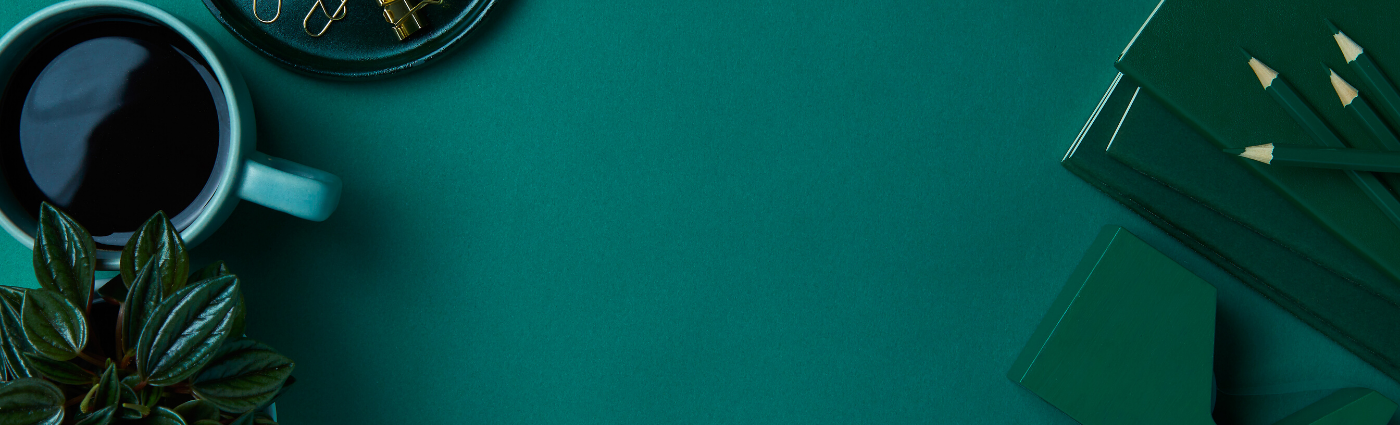
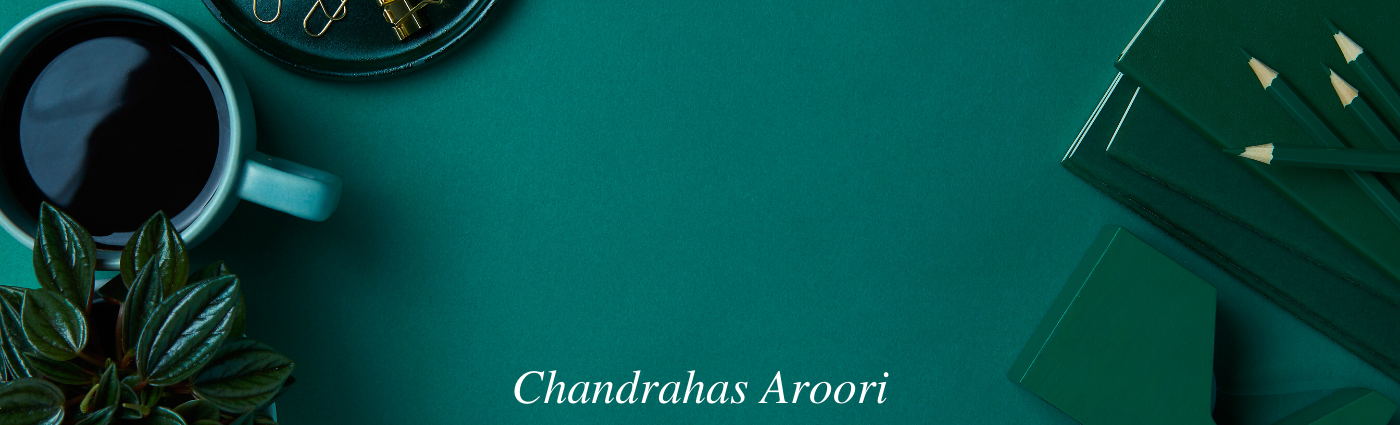
New pics

Changed region(s): [[0.3686, 0.8565, 0.645, 0.9482]]

diff --git a/startup.md b/startup.md
@@ -3,6 +3,8 @@ layout: home
 permalink: /startup/index.html
 title: "Startup"
 tags: [blog, graphic design]
+image:
+  feature: banner_startup.png
 ---
 
 This is all the posts on Startups that I've made! :D

diff --git a/design.md b/design.md
@@ -3,6 +3,8 @@ layout: home
 permalink: /design/index.html
 title: "Design"
 tags: [blog, graphic design]
+image:
+  feature: banner_design.png
 ---
 
 This is all the posts on design that I've made! :D

diff --git a/tech.md b/tech.md
@@ -3,6 +3,8 @@ layout: home
 permalink: /tech/index.html
 title: "Technologies"
 tags: [blog, graphic design]
+image:
+  feature: banner_tech.png
 ---
 
 Listing of all tech related posts I've made! :D
